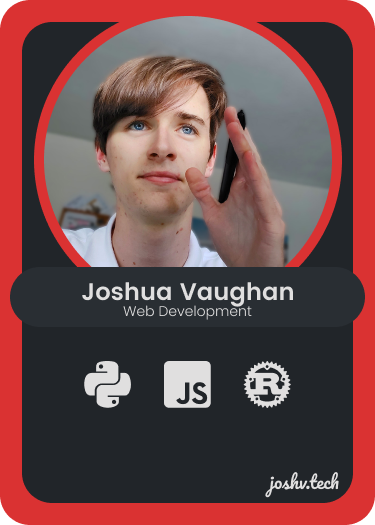
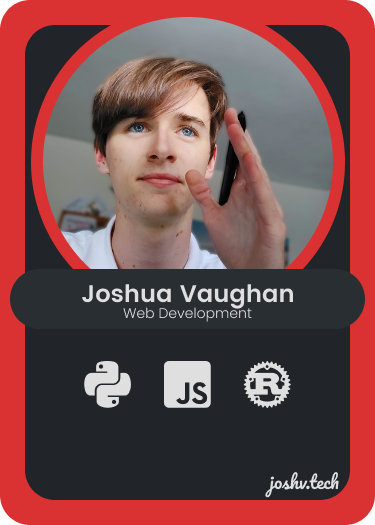
New changes

diff --git a/src/index.js b/src/index.js
@@ -2,12 +2,13 @@ import React from "react";
 import ReactDOM from "react-dom";
 
 import "bootstrap/dist/css/bootstrap.min.css";
-import { Container, Row, Col, Card } from "react-bootstrap";
+import { Container, Row, Col } from "react-bootstrap";
 
-import FrontPage from "./components/frontpage"
-import Footer from "./components/footer"
-import Divider from "./components/divider";
-import Contact from "./components/contact";
+import FrontPage from "./components/Frontpage"
+import Footer from "./components/Footer"
+import Divider from "./components/Divider";
+import Contact from "./components/Contact";
+import Portfolio from "./components/Portfolio";
 
 ReactDOM.render(
 	<>
@@ -15,7 +16,7 @@ ReactDOM.render(
 		<div id="body">
 			<div id="about-me" className="py-3">
 				<Container>
-					<h1>About Me</h1>
+					<h1 className="my-3 text-center font-weight-bold">ALL ABOUT ME</h1>
 					<h1>Languages &amp; Skills</h1>
 					<Row>
 						<Col className="text-right">
@@ -41,7 +42,7 @@ ReactDOM.render(
 							<p>Rust... Projects</p>
 						</Col>
 					</Row>
-					<h1>Certifications</h1>
+					{/* <h1>Certifications</h1>
 					<Row>
 						<Col>
 							<Card>
@@ -55,7 +56,7 @@ ReactDOM.render(
 									</Card.Text>
 								</Card.Body>
 								<Card.Body>
-									<Card.Link className="primary" href="#">View Certificate <i class="fas fa-external-link-alt"></i></Card.Link>
+									<Card.Link className="primary" href="#">View Certificate <i className="fas fa-external-link-alt"></i></Card.Link>
 								</Card.Body>
 							</Card>
 						</Col>
@@ -71,7 +72,7 @@ ReactDOM.render(
 									</Card.Text>
 								</Card.Body>
 								<Card.Body>
-									<Card.Link className="primary" href="#">View Certificate <i class="fas fa-external-link-alt"></i></Card.Link>
+									<Card.Link className="primary" href="#">View Certificate <i className="fas fa-external-link-alt"></i></Card.Link>
 								</Card.Body>
 							</Card>
 						</Col>
@@ -87,11 +88,11 @@ ReactDOM.render(
 									</Card.Text>
 								</Card.Body>
 								<Card.Body>
-									<Card.Link className="primary" href="#">View Certificate <i class="fas fa-external-link-alt"></i></Card.Link>
+									<Card.Link className="primary" href="#">View Certificate <i className="fas fa-external-link-alt"></i></Card.Link>
 								</Card.Body>
 							</Card>
 						</Col>
-					</Row>	
+					</Row> */}
 					{/* What I'm good at, https://dribbble.com/shots/17281813-NetSpring-Solutions */}
 					<h1>Education</h1>
 					<Row>
@@ -146,22 +147,23 @@ ReactDOM.render(
 					{/*  U+FE0F U+200D U+2642 U+FE0F */}
 				</Container>
 			</div>
+			<Portfolio/>
 			<div className="bg-accent py-3">
-				<Container>
+				{/* <Container>
 					<h1>Project Portfolio</h1>
-					{/* Show projects in columns, https://dribbble.com/shots/16047759-Bloom-Blog-Redesign, https://dribbble.com/shots/17279212-NFT-Web-Exploration */}
 					<ul>
-						<li>FBALeads Website</li>
-						<li>FBALeads App</li>
-						<li>230 Sqn.</li>
+						<li>FBALeads</li>
+						<li>230 Sqn. Website</li>
+						<li>Growpay</li>
+						<li>GaultonFitness</li>
 						<li>Boris Homemade Cakes</li>
 						<li>Scraper Application (Modern-Amazon?)</li>
 						<li>Rust Application (Rust-Quiz?)</li>
 						<li>Your Project</li>
 					</ul>
-				</Container>
+				</Container> */}
 			</div>
-			<div className="py-3">
+			{/* <div className="py-3">
 				<Container>
 					<h1>Testimonials</h1>
 				</Container>
@@ -175,7 +177,7 @@ ReactDOM.render(
 				<Container>
 					<h1>?</h1>
 				</Container>
-			</div>
+			</div> */}
 		</div>
 		<Footer/>
 	</>,

diff --git a/src/components/Socials.jsx b/src/components/Socials.jsx
@@ -1,0 +1,41 @@
+import React from "react"
+import { Col } from "react-bootstrap";
+
+import Icon from "./Icon"
+import Divider from "./Divider"
+
+import odysee from "../img/odysee.svg";
+
+export default class Socials extends React.Component {
+    render() {
+        let divider;
+        if (this.props.fullWidth) {
+            divider = null
+        }
+        else {
+            divider = <Divider/>
+        }
+
+        return (
+            <>
+                <Icon name="GitHub" icon="fab fa-github fa-fw" url="https://github.com/Bappy0X" colour="text-muted" fullWidth={this.props.fullWidth}/>
+                {divider}
+                <Icon name="LinkedIn" icon="fab fa-linkedin fa-fw" url="https://www.linkedin.com/in/joshua-vaughan/" colour="text-muted" fullWidth={this.props.fullWidth}/>
+                {divider}
+                <Icon name="Discord" icon="fab fa-discord fa-fw" url="https://discord.com/FG7cxurrga" colour="text-muted" fullWidth={this.props.fullWidth}/>
+                {divider}
+                <Icon name="Dribbble" icon="fab fa-dribbble fa-fw" url="https://dribbble.com/joshv-tech" colour="text-muted" fullWidth={this.props.fullWidth}/>
+                {divider}
+                {/* <Icon name="YouTube" icon="fab fa-youtube fa-fw" url="https://www.youtube.com/channel/UCyAKeyc9I7gYRhzOV0ZadSg" colour="text-muted"/>
+                <Divider/> */}
+                <Icon name="WhatsApp" icon="fab fa-whatsapp fa-fw" url="https://wa.me/447518387243" colour="text-muted" fullWidth={this.props.fullWidth}/>
+                {divider}
+                <Col xs="auto">
+                    <a className="text-muted text-decoration-none" href="https://odysee.com/@Bappy0X:6" target="_blank" rel="noreferrer"><img src={odysee} alt="Odysee" className="mr-1 fa-fw" style={{height: "1rem"}}/>Odysee</a>
+                </Col>
+                {divider}
+                <Icon name="Goodreads" icon="fab fa-goodreads-g fa-fw" url=" https://www.goodreads.com/josh-vaughan" colour="text-muted" fullWidth={this.props.fullWidth}/>
+            </>
+        )
+    }
+}

diff --git a/src/components/Frontpage.jsx b/src/components/Frontpage.jsx
@@ -1,7 +1,7 @@
 import { Container, Row, Col } from "react-bootstrap";
 
-import Contact from "./contact";
-import Socials from "./socials";
+import Contact from "./Contact";
+import Socials from "./Socials";
 
 import card from "../img/card.png";
 import signature from "../img/signature.svg";
@@ -24,7 +24,7 @@ export default function Footer() {
                         <p>Hey There! Great to see you! I'm Josh - a Software Consultant and Developer from Cheshire. I work with a wide variety of different technologies on the day-to-day.<br/><br/>Coffee and the gym are amongst my greatest interests.<br/><br/>I currently attended college; studying Computer Science, Business Studies and Public Services.</p>
                         <p className="mb-0">Interested in working together? Let's talk!</p>
                         <Contact/>
-                        <h5 class="mb-3"><a href="https://open.spotify.com/playlist/4fPtrJQWflMdV2gBGUCRU7?si=c141b47c34f64187" target="_blank" rel="noreferrer" className="primary" style={{textDecoration: "none"}}><i className="fab fa-spotify mr-2 text-success"></i>Morning Hip-Hop Playlist</a></h5>
+                        <h5 className="mb-3"><a href="https://open.spotify.com/playlist/4fPtrJQWflMdV2gBGUCRU7?si=c141b47c34f64187" target="_blank" rel="noreferrer" className="primary" style={{textDecoration: "none"}}><i className="fab fa-spotify mr-2 text-success"></i>Morning Hip-Hop Playlist</a></h5>
                         <img src={signature} className="primary" style={{height: "50px"}} alt="My Signature"/>
                     </Col>
                     <Col xs="12" className="text-center mt-auto">

diff --git a/src/components/Footer.jsx b/src/components/Footer.jsx
@@ -1,0 +1,33 @@
+import { Container, Row, Col } from "react-bootstrap"
+
+import Socials from "./Socials"
+import Icon from "./Icon"
+
+export default function Footer() {
+    return (
+        <div id="footer" className="py-3">
+            <Container>
+                <Row>
+                    <Col xs="4">
+                        <h2 className="accent">joshv.tech</h2>
+                        <p>Keep it real.</p>
+                        <p>Created with <i className="fas fa-heart primary"></i> by Joshua Vaughan (<a href="https://joshv.tech/" className="primary" target="_blank" rel="noreferrer">joshv.tech</a>)</p>
+                    </Col>
+                    <Col xs="4">
+                        <h3 className="font-weight-light">It's Open Source!</h3>
+                        <p className="m-0">Check out the source code for this site on GitHub:</p>
+                        <Row className="no-gutters">
+                            <Icon name="GitHub" icon="fab fa-github" colour="text-muted" url="https://github.com/Bappy0X/joshv.tech"/>
+                        </Row>
+                    </Col>
+                    <Col xs="4">
+                        <h3 className="font-weight-light">Keep in Touch!</h3>
+                        <Row>
+                            <Socials fullWidth={true}/>
+                        </Row>
+                    </Col>
+                </Row>
+            </Container>
+        </div>
+    )
+}

diff --git a/src/components/Portfolio.jsx b/src/components/Portfolio.jsx
@@ -1,0 +1,33 @@
+import React from "react"
+import { Container, Row, Col } from "react-bootstrap"
+
+class Title extends React.Component {
+    render() {
+        return(
+            <Container>
+                <Row>
+                    <Col xs="auto">
+                        <h3 className="mb-0">{this.props.name}</h3>
+                    </Col>
+                    <Col className="my-auto">
+                        <div style={{borderBottom: "1px solid grey"}}></div>
+                    </Col>
+                </Row>
+            </Container>
+        )
+    }
+}
+
+export default class Portfolio extends React.Component {
+    render() {
+        return(
+			<div className="bg-accent py-3">
+                <h1 className="my-3 text-center font-weight-bold">MY RECENT PROJECTS</h1>
+                <Title name="FBALeads"/>
+                <Title name="230 Sqn. RAFAC"/>
+                <Title name="Growpay"/>
+                <Title name="GaultonFitness"/>
+            </div>
+        )
+    }
+}

diff --git a/public/style.css b/public/style.css
@@ -1,4 +1,4 @@
-@import url('https://fonts.googleapis.com/css2?family=Pacifico&family=Poppins:wght@300&display=swap');
+@import url('https://fonts.googleapis.com/css2?family=Karla:wght@300;400;600;800&family=Pacifico&display=swap');
 
 :root {
     --my-red: #da3232;
@@ -8,7 +8,7 @@
 }
 
 body {
-    font-family: "Poppins", sans-serif !important;
+    font-family: "Karla", sans-serif !important;
     background-color: var(--my-white) !important;
 }
 .accent {

diff --git a/src/components/Icon.jsx b/src/components/Icon.jsx
@@ -1,0 +1,9 @@
+import { Col } from "react-bootstrap";
+
+export default function Icon({name, icon, url, colour="primary", fullWidth=false}) {
+    return (
+        <Col xs={fullWidth ? "6" :"auto"}>
+            <a className={colour + " text-decoration-none"} href={url} target="_blank" rel="noreferrer"><i className={icon + " mr-1"}></i>{name}</a>
+        </Col>
+    )
+}

diff --git a/src/components/Divider.jsx b/src/components/Divider.jsx
@@ -3,7 +3,7 @@ import { Col } from "react-bootstrap"
 export default function Divider() {
     return (
         <Col xs="auto" className="mx-3">
-            <div class="divider"/>
+            <div className="divider"/>
         </Col>
     )
 }

diff --git a/src/components/Contact.jsx b/src/components/Contact.jsx
@@ -1,7 +1,7 @@
 import { Row } from "react-bootstrap";
 
-import Divider from "./divider"
-import Icon from "./icon";
+import Divider from "./Divider"
+import Icon from "./Icon";
 
 export default function Contact() {
     return (
